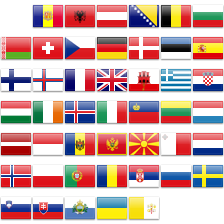
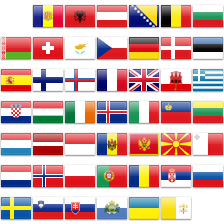
updated flags

diff --git a/www/css/flags.css b/www/css/flags.css
@@ -1,9 +1,7 @@
 .flag {
-  width: 32px;
-  height: 32px;
-  background:url(flags.png) no-repeat;
-  display: inline-block;
-  vertical-align: middle;
+	width: 32px;
+	height: 32px;
+	background:url(flags.png) no-repeat
 }
 
 .flag.flag-ad {background-position: -32px 0}
@@ -14,41 +12,42 @@
 .flag.flag-bg {background-position: -192px 0}
 .flag.flag-by {background-position: 0 -32px}
 .flag.flag-ch {background-position: -32px -32px}
-.flag.flag-cz {background-position: -64px -32px}
-.flag.flag-de {background-position: -96px -32px}
-.flag.flag-dk {background-position: -128px -32px}
-.flag.flag-ee {background-position: -160px -32px}
-.flag.flag-es {background-position: -192px -32px}
-.flag.flag-fi {background-position: 0 -64px}
-.flag.flag-fo {background-position: -32px -64px}
-.flag.flag-fr {background-position: -64px -64px}
-.flag.flag-gb {background-position: -96px -64px}
-.flag.flag-gi {background-position: -128px -64px}
-.flag.flag-gr {background-position: -160px -64px}
-.flag.flag-hr {background-position: -192px -64px}
-.flag.flag-hu {background-position: 0 -96px}
-.flag.flag-ie {background-position: -32px -96px}
-.flag.flag-is {background-position: -64px -96px}
-.flag.flag-it {background-position: -96px -96px}
-.flag.flag-li {background-position: -128px -96px}
-.flag.flag-lt {background-position: -160px -96px}
-.flag.flag-lu {background-position: -192px -96px}
-.flag.flag-lv {background-position: 0 -128px}
-.flag.flag-mc {background-position: -32px -128px}
-.flag.flag-md {background-position: -64px -128px}
-.flag.flag-me {background-position: -96px -128px}
-.flag.flag-mk {background-position: -128px -128px}
-.flag.flag-mt {background-position: -160px -128px}
-.flag.flag-nl {background-position: -192px -128px}
-.flag.flag-no {background-position: 0 -160px}
-.flag.flag-pl {background-position: -32px -160px}
-.flag.flag-pt {background-position: -64px -160px}
-.flag.flag-ro {background-position: -96px -160px}
-.flag.flag-rs {background-position: -128px -160px}
-.flag.flag-ru {background-position: -160px -160px}
-.flag.flag-se {background-position: -192px -160px}
-.flag.flag-si {background-position: 0 -192px}
-.flag.flag-sk {background-position: -32px -192px}
-.flag.flag-sm {background-position: -64px -192px}
-.flag.flag-ua {background-position: -96px -192px}
-.flag.flag-va {background-position: -128px -192px}
+.flag.flag-cy {background-position: -64px -32px}
+.flag.flag-cz {background-position: -96px -32px}
+.flag.flag-de {background-position: -128px -32px}
+.flag.flag-dk {background-position: -160px -32px}
+.flag.flag-ee {background-position: -192px -32px}
+.flag.flag-es {background-position: 0 -64px}
+.flag.flag-fi {background-position: -32px -64px}
+.flag.flag-fo {background-position: -64px -64px}
+.flag.flag-fr {background-position: -96px -64px}
+.flag.flag-gb {background-position: -128px -64px}
+.flag.flag-gi {background-position: -160px -64px}
+.flag.flag-gr {background-position: -192px -64px}
+.flag.flag-hr {background-position: 0 -96px}
+.flag.flag-hu {background-position: -32px -96px}
+.flag.flag-ie {background-position: -64px -96px}
+.flag.flag-is {background-position: -96px -96px}
+.flag.flag-it {background-position: -128px -96px}
+.flag.flag-li {background-position: -160px -96px}
+.flag.flag-lt {background-position: -192px -96px}
+.flag.flag-lu {background-position: 0 -128px}
+.flag.flag-lv {background-position: -32px -128px}
+.flag.flag-mc {background-position: -64px -128px}
+.flag.flag-md {background-position: -96px -128px}
+.flag.flag-me {background-position: -128px -128px}
+.flag.flag-mk {background-position: -160px -128px}
+.flag.flag-mt {background-position: -192px -128px}
+.flag.flag-nl {background-position: 0 -160px}
+.flag.flag-no {background-position: -32px -160px}
+.flag.flag-pl {background-position: -64px -160px}
+.flag.flag-pt {background-position: -96px -160px}
+.flag.flag-ro {background-position: -128px -160px}
+.flag.flag-rs {background-position: -160px -160px}
+.flag.flag-ru {background-position: -192px -160px}
+.flag.flag-se {background-position: 0 -192px}
+.flag.flag-si {background-position: -32px -192px}
+.flag.flag-sk {background-position: -64px -192px}
+.flag.flag-sm {background-position: -96px -192px}
+.flag.flag-ua {background-position: -128px -192px}
+.flag.flag-va {background-position: -160px -192px}
